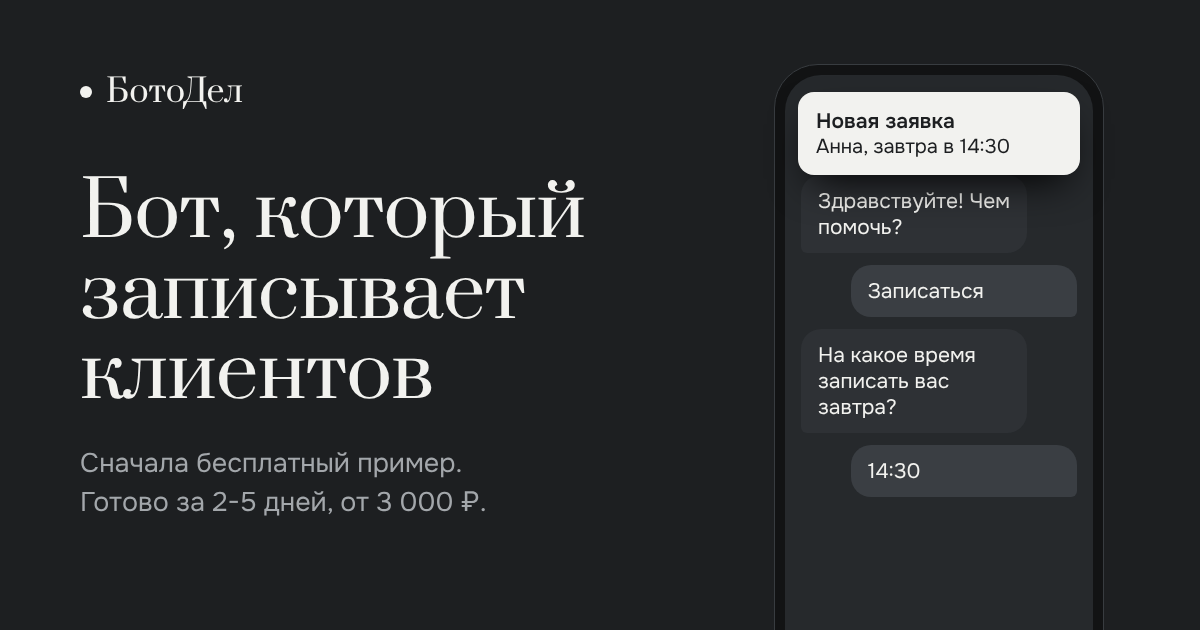
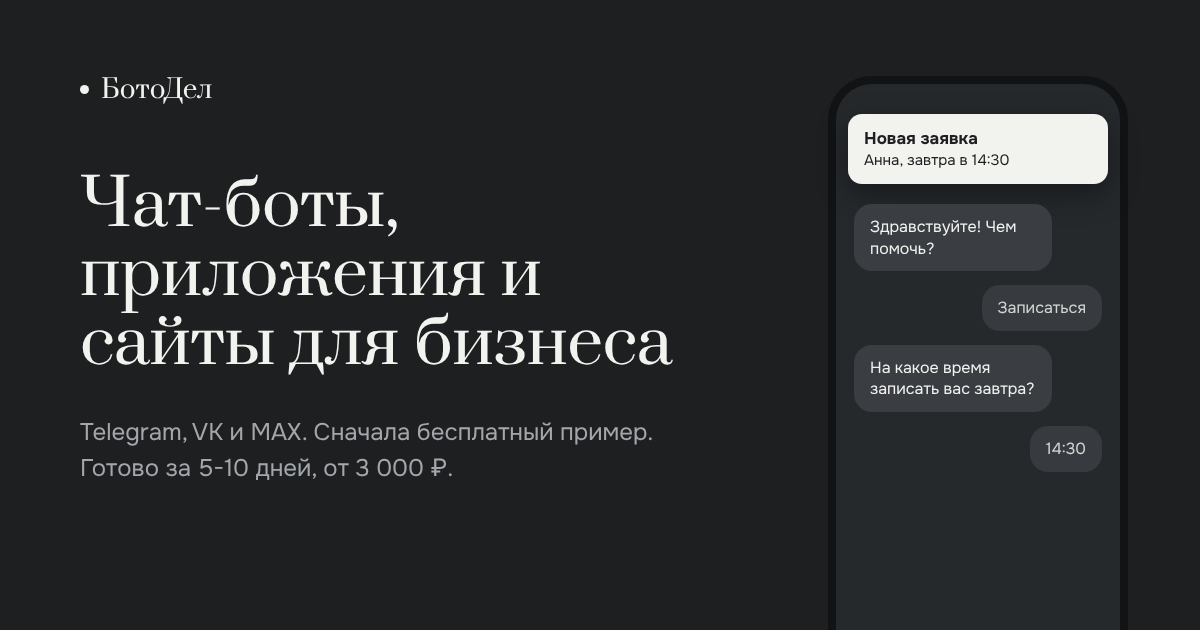
Обновить превью ссылки: новый текст и картинка со сроком 5-10 дней
Claude-Session: https://claude.ai/code/session_014oVYsspTjPZcgT6oCw9gTE

diff --git a/index.html b/index.html
@@ -11,12 +11,12 @@
 <link rel="canonical" href="https://boto-del.site/">
 <meta property="og:type" content="website">
 <meta property="og:locale" content="ru_RU">
-<meta property="og:title" content="БотоДел: чат-боты и сайты для бизнеса">
-<meta property="og:description" content="Бот, который записывает клиентов, пока вы работаете. Сначала бесплатный пример.">
+<meta property="og:title" content="БотоДел: чат-боты, приложения и сайты для бизнеса">
+<meta property="og:description" content="Делаю чат-ботов, мини-приложения и сайты для бизнеса в Telegram, VK и MAX. Сначала бесплатный пример.">
 <meta property="og:url" content="https://boto-del.site/">
-<meta property="og:image" content="https://boto-del.site/og.png?v=3">
+<meta property="og:image" content="https://boto-del.site/og.png?v=4">
 <meta property="og:image:width" content="1200"><meta property="og:image:height" content="630">
-<meta name="twitter:card" content="summary_large_image"><link rel="preload" href="fonts/onest-cyr.woff2" as="font" type="font/woff2" crossorigin><link rel="preload" href="fonts/prata-cyr.woff2" as="font" type="font/woff2" crossorigin><script type="application/ld+json">{"@context": "https://schema.org", "@type": "ProfessionalService", "name": "БотоДел", "url": "https://boto-del.site/", "image": "https://boto-del.site/og.png?v=3", "description": "Чат-боты и простые сайты для небольшого бизнеса во ВКонтакте, MAX и Telegram. Сначала бесплатный пример.", "priceRange": "от 3 000 ₽", "areaServed": "RU", "founder": {"@type": "Person", "name": "Пантин Артём Игоревич"}, "sameAs": ["https://vk.ru/id808492928", "https://t.me/panyaaya"]}</script>
+<meta name="twitter:card" content="summary_large_image"><link rel="preload" href="fonts/onest-cyr.woff2" as="font" type="font/woff2" crossorigin><link rel="preload" href="fonts/prata-cyr.woff2" as="font" type="font/woff2" crossorigin><script type="application/ld+json">{"@context": "https://schema.org", "@type": "ProfessionalService", "name": "БотоДел", "url": "https://boto-del.site/", "image": "https://boto-del.site/og.png?v=4", "description": "Чат-боты и простые сайты для небольшого бизнеса во ВКонтакте, MAX и Telegram. Сначала бесплатный пример.", "priceRange": "от 3 000 ₽", "areaServed": "RU", "founder": {"@type": "Person", "name": "Пантин Артём Игоревич"}, "sameAs": ["https://vk.ru/id808492928", "https://t.me/panyaaya"]}</script>
 <style>
 @font-face{font-family:"Onest";font-weight:400 700;font-display:swap;src:url(fonts/onest-cyr.woff2) format("woff2");unicode-range:U+0301, U+0400-045F, U+0490-0491, U+04B0-04B1, U+2116}
 @font-face{font-family:"Onest";font-weight:400 700;font-display:swap;src:url(fonts/onest-lat.woff2) format("woff2");unicode-range:U+0000-00FF, U+0131, U+0152-0153, U+02BB-02BC, U+02C6, U+02DA, U+02DC, U+0304, U+0308, U+0329, U+2000-206F, U+20AC, U+2122, U+2191, U+2193, U+2212, U+2215, U+FEFF, U+FFFD}

diff --git a/privacy/index.html b/privacy/index.html
@@ -10,7 +10,7 @@
 <meta property="og:title" content="Политика обработки персональных данных | БотоДел">
 <meta property="og:description" content="Как БотоДел обрабатывает персональные данные посетителей и заказчиков: цели, сроки хранения, права и контакты.">
 <meta property="og:url" content="https://boto-del.site/privacy/">
-<meta property="og:image" content="https://boto-del.site/og.png?v=3">
+<meta property="og:image" content="https://boto-del.site/og.png?v=4">
 <meta property="og:image:width" content="1200"><meta property="og:image:height" content="630">
 <meta name="twitter:card" content="summary_large_image"><link rel="preload" href="../fonts/onest-cyr.woff2" as="font" type="font/woff2" crossorigin>
 <style>@font-face{font-family:"Onest";font-weight:400 700;font-display:swap;src:url(../fonts/onest-cyr.woff2) format("woff2");unicode-range:U+0301, U+0400-045F, U+0490-0491, U+04B0-04B1, U+2116}

diff --git a/offer/index.html b/offer/index.html
@@ -10,7 +10,7 @@
 <meta property="og:title" content="Договор-оферта на разработку | БотоДел">
 <meta property="og:description" content="Договор-оферта на разработку чат-ботов и сайтов: стоимость, предоплата 30%, сроки, правки и права на результат.">
 <meta property="og:url" content="https://boto-del.site/offer/">
-<meta property="og:image" content="https://boto-del.site/og.png?v=3">
+<meta property="og:image" content="https://boto-del.site/og.png?v=4">
 <meta property="og:image:width" content="1200"><meta property="og:image:height" content="630">
 <meta name="twitter:card" content="summary_large_image"><link rel="preload" href="../fonts/onest-cyr.woff2" as="font" type="font/woff2" crossorigin>
 <style>@font-face{font-family:"Onest";font-weight:400 700;font-display:swap;src:url(../fonts/onest-cyr.woff2) format("woff2");unicode-range:U+0301, U+0400-045F, U+0490-0491, U+04B0-04B1, U+2116}

diff --git a/consent/index.html b/consent/index.html
@@ -10,7 +10,7 @@
 <meta property="og:title" content="Согласие на обработку персональных данных | БотоДел">
 <meta property="og:description" content="Текст согласия на обработку персональных данных для обращения к БотоДел.">
 <meta property="og:url" content="https://boto-del.site/consent/">
-<meta property="og:image" content="https://boto-del.site/og.png?v=3">
+<meta property="og:image" content="https://boto-del.site/og.png?v=4">
 <meta property="og:image:width" content="1200"><meta property="og:image:height" content="630">
 <meta name="twitter:card" content="summary_large_image"><link rel="preload" href="../fonts/onest-cyr.woff2" as="font" type="font/woff2" crossorigin>
 <style>@font-face{font-family:"Onest";font-weight:400 700;font-display:swap;src:url(../fonts/onest-cyr.woff2) format("woff2");unicode-range:U+0301, U+0400-045F, U+0490-0491, U+04B0-04B1, U+2116}

diff --git a/barbershop/index.html b/barbershop/index.html
@@ -13,7 +13,7 @@
 <meta property="og:title" content="Пример: онлайн-запись в барбершоп через Telegram | БотоДел">
 <meta property="og:description" content="Учебный пример мини-приложения записи для барбершопа: услуга, мастер, время, заявка владельцу в Telegram.">
 <meta property="og:url" content="https://boto-del.site/barbershop/">
-<meta property="og:image" content="https://boto-del.site/og.png?v=3">
+<meta property="og:image" content="https://boto-del.site/og.png?v=4">
 <meta property="og:image:width" content="1200"><meta property="og:image:height" content="630">
 <meta name="twitter:card" content="summary_large_image">
 <style>

diff --git a/interior/index.html b/interior/index.html
@@ -13,7 +13,7 @@
 <meta property="og:title" content="Пример: сайт студии с расчётом цены | БотоДел">
 <meta property="og:description" content="Учебный пример сайта студии интерьера: клиент сам считает примерную цену, смотрит работы и оставляет заявку.">
 <meta property="og:url" content="https://boto-del.site/interior/">
-<meta property="og:image" content="https://boto-del.site/og.png?v=3">
+<meta property="og:image" content="https://boto-del.site/og.png?v=4">
 <meta property="og:image:width" content="1200"><meta property="og:image:height" content="630">
 <meta name="twitter:card" content="summary_large_image">
 <style>

diff --git a/shop/index.html b/shop/index.html
@@ -13,7 +13,7 @@
 <meta property="og:title" content="Пример: магазин одежды в Telegram | БотоДел">
 <meta property="og:description" content="Учебный пример магазина внутри Telegram: каталог, размеры, корзина, промокод и оформление заказа.">
 <meta property="og:url" content="https://boto-del.site/shop/">
-<meta property="og:image" content="https://boto-del.site/og.png?v=3">
+<meta property="og:image" content="https://boto-del.site/og.png?v=4">
 <meta property="og:image:width" content="1200"><meta property="og:image:height" content="630">
 <meta name="twitter:card" content="summary_large_image">
 <style>
